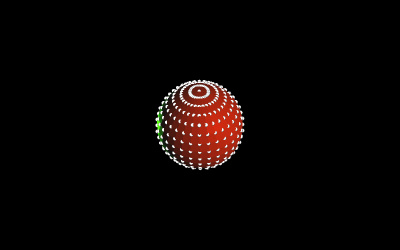
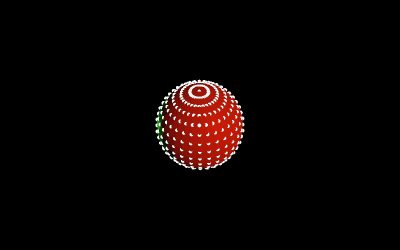
Examples: Update webgl_morphtargets_*, use physically-based lights (#25537)
* Examples: Update webgl_morphtargets_*, use physically-based lights.

* Update screenshot for webgl_morphtargets_sphere

* Bump sphere lighting

Changed region(s): [[0.39, 0.308, 0.6, 0.7], [0.6, 0.476, 0.63, 0.532]]

diff --git a/examples/webgl_morphtargets_sphere.html b/examples/webgl_morphtargets_sphere.html
@@ -33,6 +33,8 @@
 			import { OrbitControls } from 'three/addons/controls/OrbitControls.js';
 			import { GLTFLoader } from 'three/addons/loaders/GLTFLoader.js';
 
+			THREE.ColorManagement.enabled = true;
+
 			let camera, scene, renderer, clock;
 
 			let mesh;
@@ -54,11 +56,11 @@
 
 				clock = new THREE.Clock();
 
-				const light1 = new THREE.PointLight( 0xff2200, 0.7 );
+				const light1 = new THREE.PointLight( 0xff2200, 50000 );
 				light1.position.set( 100, 100, 100 );
 				scene.add( light1 );
 
-				const light2 = new THREE.PointLight( 0x22ff00, 0.7 );
+				const light2 = new THREE.PointLight( 0x22ff00, 10000 );
 				light2.position.set( - 100, - 100, - 100 );
 				scene.add( light2 );
 
@@ -92,6 +94,10 @@
 				renderer = new THREE.WebGLRenderer();
 				renderer.setPixelRatio( window.devicePixelRatio );
 				renderer.setSize( window.innerWidth, window.innerHeight );
+
+				renderer.outputEncoding = THREE.sRGBEncoding;
+				renderer.useLegacyLights = false;
+
 				container.appendChild( renderer.domElement );
 
 				//

diff --git a/examples/webgl_morphtargets.html b/examples/webgl_morphtargets.html
@@ -34,6 +34,8 @@
 			import { GUI } from 'three/addons/libs/lil-gui.module.min.js';
 			import { OrbitControls } from 'three/addons/controls/OrbitControls.js';
 
+			THREE.ColorManagement.enabled = true;
+
 			let container, camera, scene, renderer, mesh;
 
 			init();
@@ -49,9 +51,9 @@
 				camera.position.z = 10;
 				scene.add( camera );
 
-				scene.add( new THREE.AmbientLight( 0x8FBCD4, 0.4 ) );
+				scene.add( new THREE.AmbientLight( 0x8FBCD4, 1.5 ) );
 
-				const pointLight = new THREE.PointLight( 0xffffff, 1 );
+				const pointLight = new THREE.PointLight( 0xffffff, 200 );
 				camera.add( pointLight );
 
 				const geometry = createGeometry();
@@ -69,6 +71,8 @@
 				renderer = new THREE.WebGLRenderer( { antialias: true } );
 				renderer.setPixelRatio( window.devicePixelRatio );
 				renderer.setSize( window.innerWidth, window.innerHeight );
+				renderer.useLegacyLights = false;
+				renderer.outputEncoding = THREE.sRGBEncoding;
 				renderer.setAnimationLoop( function () {
 
 					renderer.render( scene, camera );

diff --git a/examples/webgl_morphtargets_horse.html b/examples/webgl_morphtargets_horse.html
@@ -43,6 +43,8 @@
 
 			import { GLTFLoader } from 'three/addons/loaders/GLTFLoader.js';
 
+			THREE.ColorManagement.enabled = true;
+
 			let container, stats;
 			let camera, scene, renderer;
 			let mesh, mixer;
@@ -69,11 +71,11 @@
 
 				//
 
-				const light1 = new THREE.DirectionalLight( 0xefefff, 1.5 );
+				const light1 = new THREE.DirectionalLight( 0xefefff, 5 );
 				light1.position.set( 1, 1, 1 ).normalize();
 				scene.add( light1 );
 
-				const light2 = new THREE.DirectionalLight( 0xffefef, 1.5 );
+				const light2 = new THREE.DirectionalLight( 0xffefef, 5 );
 				light2.position.set( - 1, - 1, - 1 ).normalize();
 				scene.add( light2 );
 
@@ -97,6 +99,7 @@
 				renderer.setSize( window.innerWidth, window.innerHeight );
 
 				renderer.outputEncoding = THREE.sRGBEncoding;
+				renderer.useLegacyLights = false;
 
 				container.appendChild( renderer.domElement );
 
